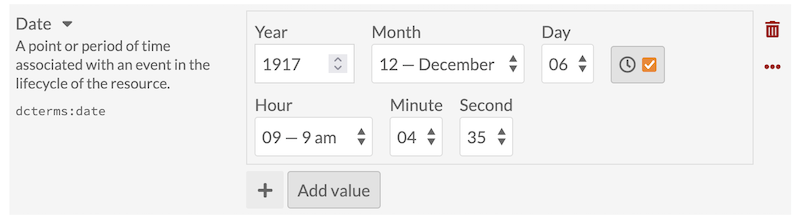
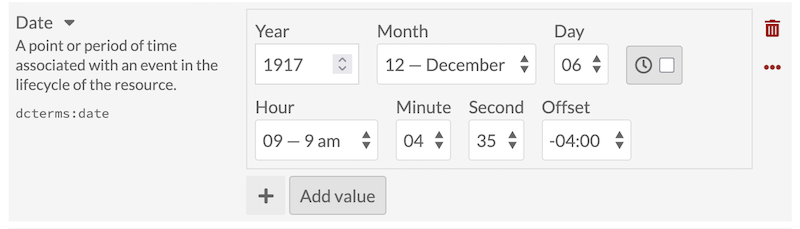
offset

diff --git a/docs/modules/numericdatatypes.md b/docs/modules/numericdatatypes.md
@@ -1,6 +1,8 @@
 # Numeric Data Types
 
-The [Numeric Data Type module](https://omeka.org/s/modules/NumericDataTypes){target=_blank} allows you to set certain properties as numeric data, using resource templates. You can designate properties as either dates and times or numbers.
+The [Numeric Data Type module](https://omeka.org/s/modules/NumericDataTypes){target=_blank} allows you to set certain properties as numeric data, using resource templates. You can designate properties with dates and times, durations, or numbers. These structured data fields allow you and your users to sort and filter items chronologically with a great amount of precision, such as within a specific ten-year span, or longer or shorter than a certain duration. 
+
+This module enables Omeka to show items on a timeline, either with a timestamp or an interval (spanning from a given start moment to an end moment). 
 
 ## Create numeric properties
 To implement the module, you will need to create or edit a [resource template](../content/resource-template.md) to set specific properties as having numeric data types. 
@@ -9,7 +11,7 @@ When creating or editing a resource template, find the property you want to set 
 
 Once the property is included in the template, click the pencil icon to edit the property. In the right hand drawer that opens, look for the dropdown "Data type" under the heading "Other options".
 
-![Closeup of the Other Options section, showing a dropdown for data type. A red arrow points to the header for the Numeric data types](../modules/modulesfiles/ndt-selectdata.png)
+![Closeup of the dropdown menu to set a data type. The last four options are the Numeric data types.](../modules/modulesfiles/ndt-selectdata.png)
 
 In the dropdown, select from the following options under the "Numeric" heading:
 
@@ -18,14 +20,11 @@ In the dropdown, select from the following options under the "Numeric" heading:
 - Duration, for how long something lasted, with options for years down to seconds
 - Interval, a date-based range with start and end dates in each instance of the property.
 
-Be sure to click "Set changes" at the bottom of the drawer to save this setting.
+Be sure to click "Set changes" at the bottom of the drawer to save this setting, then save the editing screen. 
 
 When you save changes to your resource template, the numeric type you chose should show up in the column "Data type" for the template.
 
-![Newly created resource template with a green-highlighted update success message. There are four properties - Title, Description, Date, and Spatial Coverage. In the column for Data Type, Date has Timestamp type and Spatial Coverage has Number.](../modules/modulesfiles/ndt-review.png)
-
-!!! note
-	These fields will display only the numeric data entered, as in, it will show "200" if you mean to indicate "200 metres". If you want to indicate what your number values represent (seconds minutes, metres, pixels, inches, etc.), we suggest employing the property's alternate label to include the scale you are using; for example, use "Spatial Coverage" and rename it to indicate "Height (cm)".
+![A resource template with four properties showing Data types set. The Identifier property has both "Text" and "Number", the Date property has "Timestamp", the Duration property is set to the "Duration" data type, and the Bit Rate/Frequency property is set to "Number".](modulesfiles/ndt-review.png)
 
 ## Add numeric data
 
@@ -40,7 +39,7 @@ If you enter a day without a month, the day information will not be saved.
 
 ![A timestamp field, for property Date](modulesfiles/ndt-timestamp1.png)
 
-Clicking on the "time" button to the right of the day input field will load additional dropdown fields for Hour, Minute, and Second. You can select AM or PM hours in the dropdown. 
+Clicking on the "time" button to the right of the day input field will load additional dropdown fields for Hour, Minute, and Second. You can select AM or PM hours in the dropdown. The "Offset" field allows you to designate a time zone relative to Coordinated Universal Time (UTC).
 
 ![A timestamp field, for property Date, with a row of time entry options below the date entry options.](modulesfiles/ndt-timestamp2.png)
 
@@ -50,6 +49,11 @@ Entries must be whole numbers, with no decimal points.
 A number property is a small text field that allows you to type in a number, either a whole number or with a decimal (that is, this field allows numeric characters, a negative sign [-] before the number, and one period). 
 
 The entered value must be an integer or decimal. The number must not be less than -9007199254740991 or greater than 9007199254740991. The number of digits to either the left or right side of a decimal cannot exceed 16.
+
+A number set in this data type will appear with commas indicating thousands, as in "5,000,000". 
+
+!!! note
+	These fields will display only the numeric data entered, as in, it will show "200" if you mean to indicate "200 metres". If you want to indicate what your number values represent (seconds minutes, metres, pixels, inches, etc.), we suggest employing the property's alternate label to include the scale you are using; for example, use "Spatial Coverage" and rename it to indicate "Height (cm)".
 
 ![Field for property Interval, and up or down toggle button on the right side of the field](modulesfiles/ndt-number.png)
 
